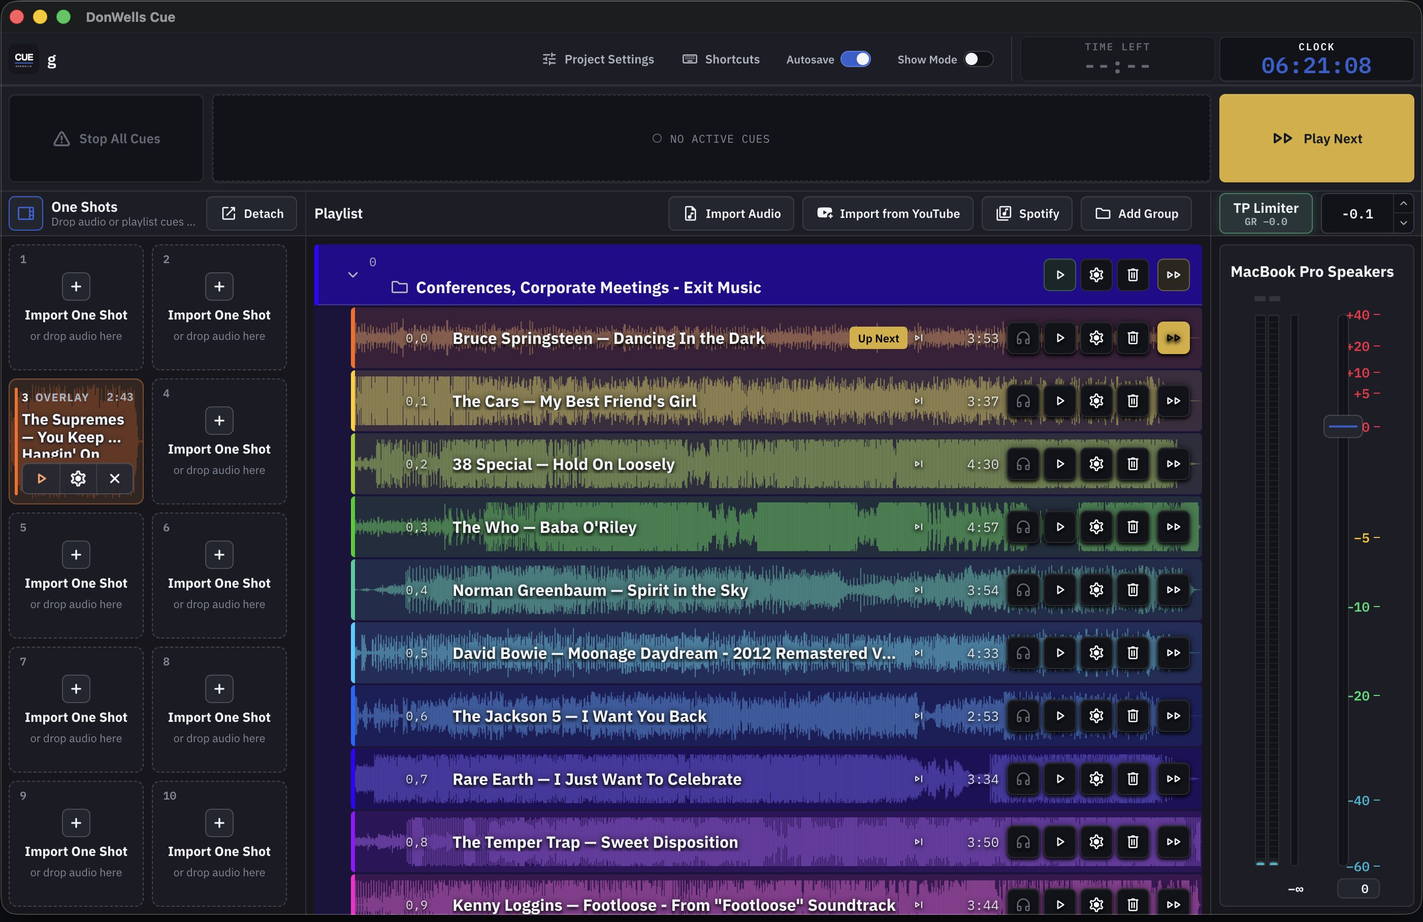
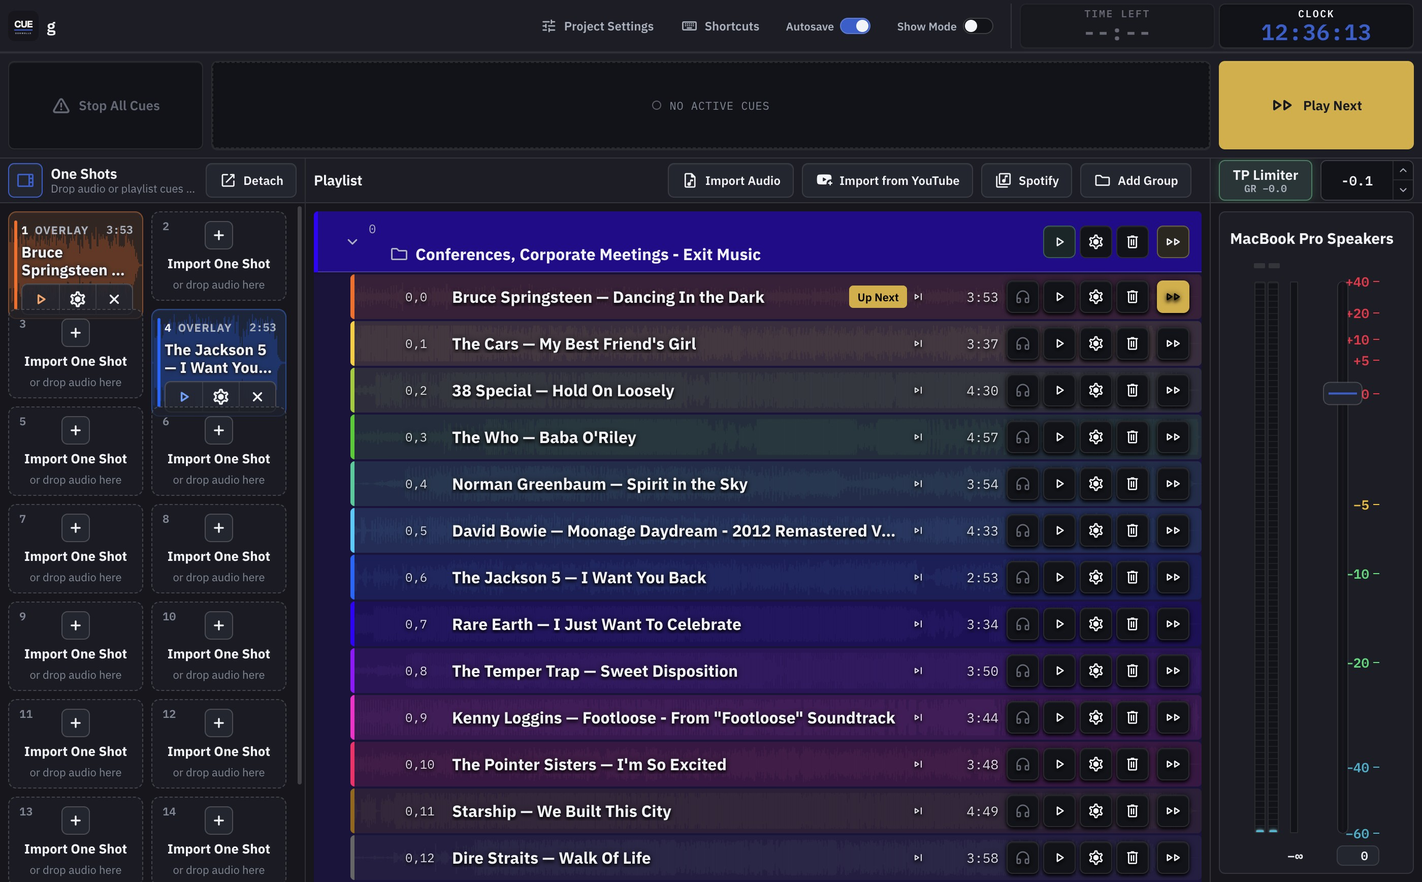
chore: release 2.5.18

diff --git a/scripts/check-live-safety.js b/scripts/check-live-safety.js
@@ -407,14 +407,14 @@ assert.match(
   'the docked stereo fader must link both channels and make its −∞ detent truly silent',
 );
 const workspaceOrder = [
-  mainWorkspace.indexOf('<CartPlayer>'),
+  mainWorkspace.indexOf('<OneShotPanel>'),
   mainWorkspace.indexOf('<PlaylistView>'),
   mainWorkspace.indexOf('class="output-console"'),
 ];
 assert.ok(
   workspaceOrder.every(position => position >= 0) &&
     workspaceOrder[0] < workspaceOrder[1] && workspaceOrder[1] < workspaceOrder[2],
-  'the workspace must order the cart, playlist, then output console',
+  'the workspace must order One Shots, playlist, then output console',
 );
 assert.match(
   mainWorkspace,
@@ -433,8 +433,8 @@ assert.match(
 );
 assert.match(
   mainWorkspace,
-  /class="workspace-panels"[\s\S]*id="cart-player-panel"[\s\S]*<CartPlayer>[\s\S]*#header-leading[\s\S]*class="cart-toggle cart-toggle--open"[\s\S]*t\('cart\.hide'\)[\s\S]*@click="toggleCart"[\s\S]*<PlaylistView>[\s\S]*#header-leading[\s\S]*v-if="cartClosed && !cartDetached"[\s\S]*class="cart-toggle"[\s\S]*t\('cart\.show'\)[\s\S]*@click="toggleCart"[\s\S]*function toggleCart\(\)[\s\S]*cartClosed\.value = !cartClosed\.value[\s\S]*cartFullscreen\.value = false/,
-  'the cart toggle must stay in the active panel header and leave resizing to the splitter',
+  /class="workspace-panels"[\s\S]*id="cart-player-panel"[\s\S]*<OneShotPanel>[\s\S]*#header-leading[\s\S]*class="cart-toggle cart-toggle--open"[\s\S]*t\('oneShots\.hide'\)[\s\S]*@click="toggleCart"[\s\S]*<PlaylistView>[\s\S]*#header-leading[\s\S]*v-if="cartClosed && !cartDetached"[\s\S]*class="cart-toggle"[\s\S]*t\('oneShots\.show'\)[\s\S]*@click="toggleCart"[\s\S]*function toggleCart\(\)[\s\S]*cartClosed\.value = !cartClosed\.value[\s\S]*cartFullscreen\.value = false/,
+  'the One Shots toggle must stay in the active panel header and leave resizing to the splitter',
 );
 assert.match(
   mainWorkspace,
@@ -447,9 +447,9 @@ assert.doesNotMatch(
   'the cart toggle must not use absolute positioning or compensating header classes',
 );
 assert.match(
-  read('client/app/components/CartPlayer.vue') + playlistView,
-  /cart-header workspace-panel-header[\s\S]*workspace-panel-header__leading[\s\S]*slot name="header-leading"[\s\S]*playlist-header workspace-panel-header[\s\S]*workspace-panel-header__leading[\s\S]*slot name="header-leading"/,
-  'cart and playlist headers must expose the same in-flow leading-control lane',
+  read('client/app/components/OneShotPanel.vue') + playlistView,
+  /one-shot-header workspace-panel-header[\s\S]*workspace-panel-header__leading[\s\S]*slot name="header-leading"[\s\S]*playlist-header workspace-panel-header[\s\S]*workspace-panel-header__leading[\s\S]*slot name="header-leading"/,
+  'One Shots and playlist headers must expose the same in-flow leading-control lane',
 );
 assert.doesNotMatch(
   mainWorkspace,
@@ -1469,8 +1469,8 @@ assert.match(
   /const projectFolderPath = props\.projectFolderPath[\s\S]*const projectEpoch = props\.projectEpoch[\s\S]*props\.projectFolderPath !== projectFolderPath[\s\S]*props\.projectEpoch !== projectEpoch/,
   'a Spotify job must stay bound to the project generation that started it',
 );
-const cart = read('client/app/components/CartPlayer.vue');
-const cartSlot = read('client/app/components/CartSlot.vue');
+const oneShotPanel = read('client/app/components/OneShotPanel.vue');
+const oneShotTile = read('client/app/components/OneShotTile.vue');
 const youtubeImport = read('client/app/components/YouTubeImportModal.vue');
 const controlConfig = read('client/app/components/ControlConfigModal.vue');
 const midiController = read('client/app/composables/useMidiController.ts');
@@ -1572,15 +1572,15 @@ assert.match(
   /&--strip &__gr-track\s*\{[\s\S]{0,120}background:\s*var\(--color-control\);[\s\S]{0,60}box-shadow:\s*none;[\s\S]*&--strip &__gr-track::before\s*\{\s*content:\s*none;[\s\S]*&--strip &__track\s*\{[\s\S]{0,120}background:\s*var\(--color-control\);[\s\S]{0,60}box-shadow:\s*none;/,
   'the output meter wells must stay flat while retaining their live level data',
 );
-assert.doesNotMatch(
-  cartSlot,
-  /&\.warning-(?:yellow|orange|red)\s*\{[^}]*border-width:/,
-  'cart warning states must not change the structural card border',
+assert.match(
+  oneShotPanel,
+  /v-else-if="slotErrors\[index\]"[\s\S]{0,220}role="alert"[\s\S]{0,700}clearSlotError\(index\)/,
+  'One Shot import warnings must stay visible until the operator explicitly clears them',
 );
 assert.match(
-  cartSlot,
-  /&\.warning-yellow::after,[\s\S]{0,100}&\.warning-red::after\s*\{[\s\S]{0,180}inset:\s*0;[\s\S]{0,180}border:\s*4px solid var\(--cart-warning-color\);[\s\S]{0,100}animation:\s*cart-warning-flash var\(--cart-warning-rate\)/,
-  'cart warnings must draw inside the card without moving its contents',
+  oneShotTile,
+  /v-if="!showMode"[\s\S]*class="one-shot-control one-shot-remove"[\s\S]*v-if="removeOpen"[\s\S]*role="alertdialog"/,
+  'One Shot removal must remain an explicit regular-mode-only confirmation',
 );
 assert.match(
   propertiesPanel,
@@ -1743,9 +1743,9 @@ assert.match(
   'YouTube results must block live downloads and retain saved-file information',
 );
 assert.match(
-  cartSlot,
-  /importFromServerPath[\s\S]*color: colorForNewAudioItem\(currentProject\.value\.settings, props\.slot\)/,
-  'new cart imports must receive their slot-ordered palette color',
+  oneShotPanel,
+  /importFromServerPath[\s\S]*color: colorForNewAudioItem\(currentProject\.value\.settings, slot\)/,
+  'new One Shot imports must receive their slot-ordered palette color',
 );
 assert.match(
   propertiesPanel,
@@ -1788,9 +1788,9 @@ assert.match(
   'workspace column headers must share one fixed geometry and title style',
 );
 assert.match(
-  playlistView + cart + mainWorkspace,
-  /playlist-header workspace-panel-header[\s\S]*cart-header workspace-panel-header[\s\S]*output-console__header workspace-panel-header/,
-  'Playlist, Cart, and Output must all use the shared header system',
+  playlistView + oneShotPanel + mainWorkspace,
+  /playlist-header workspace-panel-header[\s\S]*one-shot-header workspace-panel-header[\s\S]*output-console__header workspace-panel-header/,
+  'Playlist, One Shots, and Output must all use the shared header system',
 );
 assert.match(
   playlistView,
@@ -2160,19 +2160,19 @@ assert.match(
   'cart layouts must keep four bounded per-device profiles',
 );
 assert.match(
-  cart,
-  /props\.isDetachedWindow[\s\S]*'detachedShow'[\s\S]*'detachedRegular'[\s\S]*'attachedShow'[\s\S]*'attachedRegular'[\s\S]*--cart-columns[\s\S]*--cart-card-row-height[\s\S]*grid-template-columns:\s*repeat\(var\(--cart-columns, 2\), minmax\(0, 1fr\)\)[\s\S]*grid-auto-rows:\s*var\(--cart-card-row-height, 88px\)/,
-  'the cart must honor the exact row, column, and minimum-height values for each profile',
+  oneShotPanel,
+  /props\.isDetachedWindow[\s\S]*'detachedShow'[\s\S]*'detachedRegular'[\s\S]*'attachedShow'[\s\S]*'attachedRegular'[\s\S]*--one-shot-columns[\s\S]*--one-shot-row-height[\s\S]*grid-template-columns:\s*repeat\(var\(--one-shot-columns, 2\), minmax\(0, 1fr\)\)[\s\S]*grid-auto-rows:\s*var\(--one-shot-row-height, 106px\)/,
+  'One Shots must honor the exact row, column, and minimum-height values for each profile',
 );
 assert.doesNotMatch(
-  cart,
-  /grid-template-columns:\s*repeat\(\s*auto-fit|--cart-min-card-width|--cart-target-card-width/,
-  'automatic fitting must not override the operator-selected cart columns',
+  oneShotPanel,
+  /grid-template-columns:\s*repeat\(\s*auto-fit|--one-shot-min-card-width|--one-shot-target-card-width/,
+  'automatic fitting must not override the operator-selected One Shot columns',
 );
 assert.match(
-  cart,
-  /\.cart-header,\s*\.cart-grid\s*\{\s*scrollbar-gutter:\s*stable;/,
-  'the cart header and card grid must reserve the same scrollbar gutter',
+  oneShotPanel,
+  /\.one-shot-grid\s*\{[\s\S]{0,500}scrollbar-gutter:\s*stable;/,
+  'the One Shot grid must reserve a stable scrollbar gutter',
 );
 assert.match(
   playlistView,
@@ -2180,30 +2180,30 @@ assert.match(
   'the playlist header and track list must reserve the same scrollbar gutter',
 );
 assert.match(
-  cartSlot,
-  /\.slot-footer\s*\{[\s\S]{0,180}gap:\s*var\(--spacing-xs\);[\s\S]*@container \(max-width: 145px\)\s*\{[\s\S]{0,120}\.cart-slot\.show-mode \.behavior-icon\s*\{[\s\S]{0,60}font-size:\s*13px;[\s\S]{0,120}\.cart-slot\.show-mode \.slot-duration\s*\{[\s\S]{0,60}font-size:\s*11px;/,
-  'compact Show cart cards must retain their full footer without clipping metadata',
+  oneShotTile,
+  /\.one-shot-tile\.show-mode\s*\{[\s\S]{0,120}min-height:\s*112px;[\s\S]*\.show-mode \.one-shot-actions\s*\{\s*grid-auto-columns:\s*34px;[\s\S]*\.show-mode \.one-shot-control\s*\{\s*width:\s*34px;\s*height:\s*34px;/,
+  'compact Show Mode One Shot cells must retain clear transport controls without becoming oversized',
 );
 assert.match(
-  cart,
-  /v-for="slot in cartSlotCount"[\s\S]*:max-slot="cartSlotCount - 1"[\s\S]*normalizeCartSlotCount\([\s\S]*cartItems[\s\S]*cartSlotKeys/,
-  'the cart must render the safe project-wide card count and pass its reorder boundary to every slot',
+  oneShotPanel,
+  /buildOneShotSlots\([\s\S]*layout\.rows \* layout\.columns[\s\S]*roundedLength[\s\S]*slots\.push\(null\)/,
+  'One Shot cells must remain a permanent grid sized by the active layout rather than playlist contents',
 );
-assert.doesNotMatch(cart, /v-for="slot in 16"/, 'the cart must not return to a fixed 16-card grid');
+assert.doesNotMatch(oneShotPanel, /v-for="slot in 16"/, 'One Shots must not return to a fixed 16-cell grid');
 assert.match(
-  cartSlot,
-  /maxSlot:\s*number[\s\S]*firstFree > props\.maxSlot/,
-  'cart reorder must follow the rendered card count instead of a fixed slot 15 ceiling',
+  oneShotPanel,
+  /moveOneShotToSlot[\s\S]*source\.oneShot\.order = targetSlot[\s\S]*if \(target\?\.oneShot\) target\.oneShot\.order = sourceSlot/,
+  'One Shot reordering must swap its permanent cell assignments instead of rebuilding the list',
 );
 assert.match(
   projectSettingsModal,
-  /cartPlayerLayout[\s\S]*totalCartCards[\s\S]*CART_SLOT_COUNT_LIMITS\.max[\s\S]*minimumCardHeight[\s\S]*visibleRows[\s\S]*columns[\s\S]*cartLayoutAttachedRegular[\s\S]*cartLayoutAttachedShow[\s\S]*cartLayoutDetachedRegular[\s\S]*cartLayoutDetachedShow[\s\S]*onCartGridLayoutChange[\s\S]*onCartSlotCountChange[\s\S]*input\.value\.trim\(\)[\s\S]*input\.value = String\(cartSlotCount\.value\)[\s\S]*applyPatch\(\{ cartSlotCount: value \}\)/,
-  'settings must expose the safe total plus height, visible rows, and columns for all four cart profiles',
+  /cartPlayerLayout[\s\S]*minimumCardHeight[\s\S]*visibleRows[\s\S]*columns[\s\S]*cartGridProfileOptions[\s\S]*attachedRegular[\s\S]*attachedShow[\s\S]*detachedRegular[\s\S]*detachedShow[\s\S]*onCartGridLayoutChange[\s\S]*input\.value\.trim\(\)[\s\S]*setCartGridLayout/,
+  'settings must expose height, visible rows, and columns for all four One Shot layout profiles',
 );
 assert.match(
   controlConfig,
-  /v-for="slot in cartSlotCount"[\s\S]*normalizeCartSlotCount\([\s\S]*a\.n <= cartSlotCount\.value/,
-  'keyboard and MIDI configuration must follow the active project card count',
+  /v-for="entry in configuredOneShots"[\s\S]*entry\.slotIndex[\s\S]*buildOneShotSlots[\s\S]*const configuredOneShots/,
+  'keyboard and MIDI configuration must follow the configured One Shot cells',
 );
 assert.match(
   `${locationChoiceModal}\n${quitConfirmModal}`,
@@ -2259,41 +2259,44 @@ assert.match(
   'an empty cart layout field must restore the current value instead of snapping to its minimum',
 );
 assert.match(
-  cartSlot,
-  /container-type:\s*size[\s\S]*@container \(max-height:\s*110px\)[\s\S]*grid-template-rows:\s*20px minmax\(0, 1fr\) 28px[\s\S]*position:\s*static/,
-  'short cart cards must switch to a compact layout instead of overlapping their content',
-);
-
-assert.match(cart, /handleCartKeydown[\s\S]*showMode\.value[\s\S]*requestDeleteFromKeyboard/, 'Show Mode must block detached-cart deletion');
-assert.match(
-  cart,
-  /id="cart-load-hint"[\s\S]*t\('cart\.clickToImport'\)/,
-  'the cart must show one shared loading instruction in its header',
+  oneShotTile,
+  /\.one-shot-tile\.show-mode\s*\{[\s\S]{0,120}min-height:\s*112px;[\s\S]*\.show-mode \.one-shot-title[\s\S]{0,120}font-size:\s*15px;/,
+  'Show Mode One Shot tiles must keep their compact visual hierarchy intact',
 );
 assert.match(
-  cartSlot,
-  /<button\b(?=[^>]*v-if="!hasItem && !showMode")(?=[^>]*class="empty-slot")(?=[^>]*:aria-label)(?=[^>]*aria-describedby="cart-load-hint")(?=[^>]*@click="handleImport")[^>]*>/,
-  'editable empty cart slots must be named keyboard buttons',
+  oneShotTile,
+  /v-if="!showMode"[\s\S]*class="one-shot-control one-shot-remove"[\s\S]*v-if="removeOpen"/,
+  'Show Mode must block One Shot removal while regular mode retains the confirmation control',
 );
 assert.match(
-  cartSlot,
-  /<div\b(?=[^>]*v-else-if="!hasItem")(?=[^>]*class="[^"]*\bempty-slot--inert\b)[^>]*>/,
-  'empty cart slots must stay inert in Show Mode',
+  oneShotPanel,
+  /one-shot-header[\s\S]{0,300}v-if="!showMode"[\s\S]{0,120}t\('oneShots\.hint'\)/,
+  'the One Shots header must reserve its import guidance for editable regular mode',
+);
+assert.match(
+  oneShotPanel,
+  /<button[\s\S]{0,160}v-else-if="!showMode"[\s\S]{0,240}class="one-shot-empty-cell"[\s\S]{0,240}:aria-label[\s\S]{0,180}@click="openImport\(index\)"/,
+  'editable empty One Shot cells must be named keyboard buttons',
+);
+assert.match(
+  oneShotPanel,
+  /<div v-else class="one-shot-empty-cell show-mode" aria-hidden="true">/,
+  'empty One Shot cells must stay inert in Show Mode',
 );
 assert.doesNotMatch(
-  cartSlot,
+  oneShotTile,
   /:aria-pressed="showMode \? isPlaying/,
-  'the Show Mode cart action must not mix a changing Play/Stop name with toggle semantics',
-);
-assert.doesNotMatch(
-  cartSlot,
-  /slotRef\.value\s*&&\s*!showMode\.value/,
-  'cart drag/drop listeners must not be permanently decided by the mode at mount',
+  'the Show Mode One Shot action must not mix a changing Play/Stop name with toggle semantics',
 );
 assert.match(
-  cartSlot,
-  /addEventListener\('dragover'[\s\S]{0,400}if \(showMode\.value\)[\s\S]{0,200}dropEffect = 'none'/,
-  'cart drag feedback must follow the current Show Mode state',
+  oneShotTile,
+  /const handleDragStart[\s\S]{0,260}if \(showMode\.value \|\| !event\.dataTransfer\)[\s\S]{0,160}event\.preventDefault\(\)/,
+  'One Shot drag behavior must follow the current Show Mode state',
+);
+assert.match(
+  oneShotPanel,
+  /const handleDragOver[\s\S]{0,220}if \(showMode\.value \|\| !currentProject\.value \|\| busySlot\.value !== null\) return[\s\S]{0,260}dropEffect = event\.dataTransfer\.types\.includes\('one-shot-uuid'\) \? 'move' : 'copy'/,
+  'One Shot drag feedback must clearly distinguish move and copy while editing',
 );
 assert.match(
   playlistItem,
@@ -2306,9 +2309,9 @@ assert.match(
   'silence-warning placement must react to internal header content changes',
 );
 assert.doesNotMatch(
-  cartSlot,
+  oneShotPanel,
   /class="slot-hint"/,
-  'empty cart slots must not repeat the shared loading instruction',
+  'empty One Shot cells must not repeat obsolete cart loading copy',
 );
 
 const serverSettings = read('client/app/components/ServerSettingsModal.vue');

diff --git a/docs-site/app/app.vue b/docs-site/app/app.vue
@@ -265,7 +265,7 @@ const baseURL = useRuntimeConfig().app.baseURL;
 const asset = (path: string) => `${baseURL}${path.replace(/^\/+/, '')}`;
 const siteURL = baseURL === '/' ? 'https://dwcue.com/' : 'https://tdoukinitsas.github.io/liveplay/';
 
-const version = ref('2.5.17');
+const version = ref('2.5.18');
 const detectedOS = ref<string | null>(null);
 
 const workflowSteps = [

diff --git a/docs-site/README.md b/docs-site/README.md
@@ -2,7 +2,7 @@
 
 This is the public-facing DonWells Cue static site. It is a fresh Nuxt 4 SPA built from the current desktop app and root README—not from the retired pre-fork website handover. The primary live site is [`https://dwcue.com/`](https://dwcue.com/); the GitHub Pages build remains available at [`https://tdoukinitsas.github.io/liveplay/`](https://tdoukinitsas.github.io/liveplay/) while the repository is hosted at [`donwellsav/dwcue`](https://github.com/donwellsav/dwcue).
 
-This document is the developer's guide to the docs site. For end-user docs, see the [root README](../README.md). The current screenshot set is captured from the packaged v2.5.17 app; refresh `client/public/screenshots/` when the top-level playback UI changes.
+This document is the developer's guide to the docs site. For end-user docs, see the [root README](../README.md). The current screenshot set comes from the app UI; refresh `client/public/screenshots/` when the top-level playback UI changes.
 
 ---
 
@@ -76,7 +76,7 @@ cp package.json  docs-site/public/package.json
 
 ## How it works
 
-1. **Version detection** — at runtime, the page fetches `package.json` from the active host and reads the `version` field. All download links are constructed from this version, with `2.5.17` as a safe local fallback.
+1. **Version detection** — at runtime, the page fetches `package.json` from the active host and reads the `version` field. All download links are constructed from this version, with `2.5.18` as a safe local fallback.
 2. **Download links** — interpolated as `https://github.com/donwellsav/dwcue/releases/download/v<version>/<asset>`:
 
    | Platform | Asset pattern                          |
@@ -85,7 +85,7 @@ cp package.json  docs-site/public/package.json
    | macOS    | `DonWells-Cue-<version>-arm64.dmg`, `DonWells-Cue-<version>-arm64.zip` |
    | Linux    | `DonWells-Cue-<version>-x86_64.AppImage`, `DonWells-Cue-<version>-amd64.deb`, `DonWells-Cue-<version>-x86_64.rpm` |
 
-   The current release is [v2.5.17](https://github.com/donwellsav/dwcue/releases/tag/v2.5.17). If you rename a release asset on the server side, update the URL builder in `app.vue`.
+   The current release is [v2.5.18](https://github.com/donwellsav/dwcue/releases/tag/v2.5.18). If you rename a release asset on the server side, update the URL builder in `app.vue`.
 3. **Product story** — the page explains the current workflow (Properties → Preview → Show Mode), the permanent One Shots grid, output safety, and the supported release builds. The full technical reference remains the root README, linked from the docs section.
 4. **Localisation** — `composables/useI18n.ts` detects the browser language and loads the matching JSON from the configured site base URL (`/liveplay/locales/<code>.json` on GitHub Pages or `/locales/<code>.json` on `dwcue.com`). Falls back to English. The current locale is persisted in `localStorage`. `LanguageSwitcher.vue` is the UI.
 
@@ -145,6 +145,6 @@ If a section needs reusable layout (image-on-left, image-on-right, alternating),
 ## Troubleshooting
 
 - **Old version shows after a release** — GitHub Pages caches aggressively. Hard-refresh (Ctrl/Cmd+Shift+R). If it persists after ~5 minutes, check that the deploy workflow actually re-ran (Actions tab).
-- **404 on downloads** — the linked release must already exist on GitHub. The docs read the version from `package.json`, so publish the matching release before deploying a version bump. For the current build, check [v2.5.17](https://github.com/donwellsav/dwcue/releases/tag/v2.5.17).
+- **404 on downloads** — the linked release must already exist on GitHub. The docs read the version from `package.json`, so publish the matching release before deploying a version bump. For the current build, check [v2.5.18](https://github.com/donwellsav/dwcue/releases/tag/v2.5.18).
 - **404 on assets** — confirm the file is in `public/` (not just `assets/` — Nuxt's `assets/` is bundle-only). Check the `/liveplay/` base path is in the URL.
 - **Build fails** — reproduce locally with `npm run generate`. The most common cause is a missing file in `public/` that wasn't copied in (CI usually handles this — if running locally, copy manually as described above).

diff --git a/README.md b/README.md
@@ -4,13 +4,13 @@
 
 You build a **show** as a list of cues plus a grid of one-touch buttons, then trigger them with a click, a tap, a keyboard shortcut, or a MIDI controller. DonWells Cue handles the fades, the transitions between tracks, and keeps a close eye on your levels so nothing clips or distorts.
 
-This is the active DonWells Cue fork. Build targets are configured for **Windows x64, macOS Apple Silicon and Linux x64**. The current release is **v2.5.17**; the Apple Silicon package has been smoke-tested locally and the release page contains the platform artefacts produced by CI.
+This is the active DonWells Cue fork. Build targets are configured for **Windows x64, macOS Apple Silicon and Linux x64**. The current release is **v2.5.18**; the Apple Silicon package has been package-validated locally and the release page contains the platform artefacts produced by CI.
 
-> **Current release:** [DonWells Cue v2.5.17](https://github.com/donwellsav/dwcue/releases/tag/v2.5.17). Local builds are still useful when you need to validate a change before distributing it.
+> **Current release:** [DonWells Cue v2.5.18](https://github.com/donwellsav/dwcue/releases/tag/v2.5.18). Local builds are still useful when you need to validate a change before distributing it.
 
-![DonWells Cue 2.5.17 showing the playlist, permanent One Shots grid, and output metering](client/public/screenshots/donwells_cue_main.jpg)
+![DonWells Cue 2.5.18 showing the playlist, permanent One Shots grid, and output metering](client/public/screenshots/donwells_cue_main.jpg)
 
-The screenshots in this README and the public docs site are captured from the packaged v2.5.17 app. Refresh these canonical images when the top-level playback UI changes.
+The screenshots in this README and the public docs site come from the current app UI. Refresh these canonical images when the top-level playback UI changes.
 
 ---
 
@@ -35,7 +35,7 @@ The screenshots in this README and the public docs site are captured from the pa
 
 ## Download and install
 
-Download the latest installer from the [v2.5.17 release page](https://github.com/donwellsav/dwcue/releases/tag/v2.5.17). The release workflow produces:
+Download the latest installer from the [v2.5.18 release page](https://github.com/donwellsav/dwcue/releases/tag/v2.5.18). The release workflow produces:
 
 | Platform | What to download |
 |----------|------------------|
@@ -281,7 +281,7 @@ For deeper development notes:
 
 ## Releases & GitHub Actions
 
-A release pipeline is configured in [`.github/workflows/build-release.yml`](.github/workflows/build-release.yml). The current published release is [v2.5.17](https://github.com/donwellsav/dwcue/releases/tag/v2.5.17); the workflow remains the source of truth for future versioned artefacts.
+A release pipeline is configured in [`.github/workflows/build-release.yml`](.github/workflows/build-release.yml). The current published release is [v2.5.18](https://github.com/donwellsav/dwcue/releases/tag/v2.5.18); the workflow remains the source of truth for future versioned artefacts.
 
 ### Triggering a release
 

diff --git a/docs-site/public/README.md b/docs-site/public/README.md
@@ -4,13 +4,13 @@
 
 You build a **show** as a list of cues plus a grid of one-touch buttons, then trigger them with a click, a tap, a keyboard shortcut, or a MIDI controller. DonWells Cue handles the fades, the transitions between tracks, and keeps a close eye on your levels so nothing clips or distorts.
 
-This is the active DonWells Cue fork. Build targets are configured for **Windows x64, macOS Apple Silicon and Linux x64**. The current release is **v2.5.17**; the Apple Silicon package has been smoke-tested locally and the release page contains the platform artefacts produced by CI.
+This is the active DonWells Cue fork. Build targets are configured for **Windows x64, macOS Apple Silicon and Linux x64**. The current release is **v2.5.18**; the Apple Silicon package has been package-validated locally and the release page contains the platform artefacts produced by CI.
 
-> **Current release:** [DonWells Cue v2.5.17](https://github.com/donwellsav/dwcue/releases/tag/v2.5.17). Local builds are still useful when you need to validate a change before distributing it.
+> **Current release:** [DonWells Cue v2.5.18](https://github.com/donwellsav/dwcue/releases/tag/v2.5.18). Local builds are still useful when you need to validate a change before distributing it.
 
-![DonWells Cue 2.5.17 showing the playlist, permanent One Shots grid, and output metering](client/public/screenshots/donwells_cue_main.jpg)
+![DonWells Cue 2.5.18 showing the playlist, permanent One Shots grid, and output metering](client/public/screenshots/donwells_cue_main.jpg)
 
-The screenshots in this README and the public docs site are captured from the packaged v2.5.17 app. Refresh these canonical images when the top-level playback UI changes.
+The screenshots in this README and the public docs site come from the current app UI. Refresh these canonical images when the top-level playback UI changes.
 
 ---
 
@@ -35,7 +35,7 @@ The screenshots in this README and the public docs site are captured from the pa
 
 ## Download and install
 
-Download the latest installer from the [v2.5.17 release page](https://github.com/donwellsav/dwcue/releases/tag/v2.5.17). The release workflow produces:
+Download the latest installer from the [v2.5.18 release page](https://github.com/donwellsav/dwcue/releases/tag/v2.5.18). The release workflow produces:
 
 | Platform | What to download |
 |----------|------------------|
@@ -281,7 +281,7 @@ For deeper development notes:
 
 ## Releases & GitHub Actions
 
-A release pipeline is configured in [`.github/workflows/build-release.yml`](.github/workflows/build-release.yml). The current published release is [v2.5.17](https://github.com/donwellsav/dwcue/releases/tag/v2.5.17); the workflow remains the source of truth for future versioned artefacts.
+A release pipeline is configured in [`.github/workflows/build-release.yml`](.github/workflows/build-release.yml). The current published release is [v2.5.18](https://github.com/donwellsav/dwcue/releases/tag/v2.5.18); the workflow remains the source of truth for future versioned artefacts.
 
 ### Triggering a release
 
